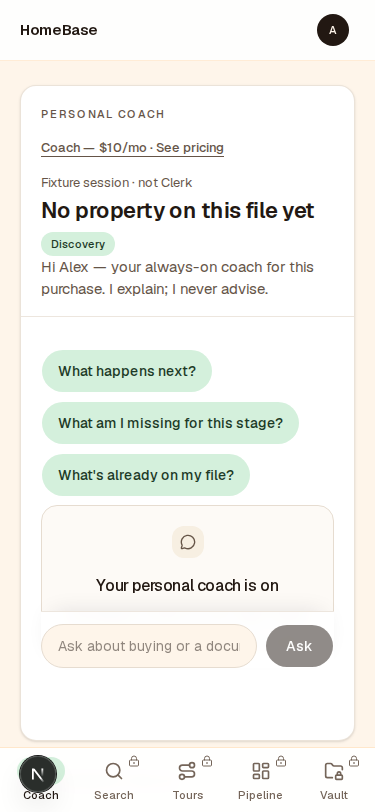
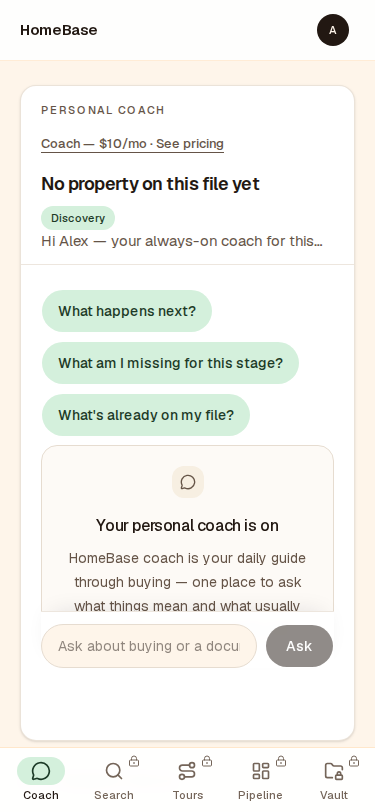
fix(coach): keep first-session starter replies in view @375
Pin the reply thread between chips and Ask on mobile using a 3-row grid
with 16px gap, hide the empty-state fold after a starter tap, and refresh
Playwright proofs under proof/coach-starter-replies/.

Changed region(s): [[0.088, 0.1232, 0.8507, 0.7697], [0.0587, 0.9236, 0.1467, 0.9852]]

diff --git a/src/components/concierge-chat.tsx b/src/components/concierge-chat.tsx
@@ -2,10 +2,11 @@
 
 import { useState, type ReactNode } from "react";
 
+import { cn } from "@/lib/utils";
+
 import { askConcierge } from "@/app/actions/concierge";
 import { ConciergeAnswerView } from "@/components/concierge-answer";
 import { Button } from "@/components/ui/button";
-import { cn } from "@/lib/utils";
 
 /**
  * The eight canonical questions from DESIGN.md §M3, phrased the way a buyer
@@ -67,6 +68,44 @@ export function ConciergeChat({
     setBusy(false);
   }
 
+  const pinFirstSessionMobile = pinStartersAboveScrollOnMobile;
+  const showPinnedFirstSessionThread =
+    pinFirstSessionMobile && asked !== null;
+  const mobileReplyGrid =
+    pinFirstSessionMobile && showPinnedFirstSessionThread;
+
+  const compactFirstSessionAnswer =
+    "max-md:line-clamp-3 max-md:overflow-hidden max-md:px-3 max-md:py-1 max-md:text-xs max-md:leading-snug";
+
+  function renderConversation(options?: { omitUserBubble?: boolean }) {
+    const omitUserBubble = options?.omitUserBubble === true;
+    return (
+      <>
+        {asked === null ? (
+          <p className="my-auto text-center text-sm text-muted-foreground">
+            {idleHint}
+          </p>
+        ) : omitUserBubble ? null : (
+          <p className="ml-auto max-w-[85%] rounded-2xl rounded-br-md bg-primary px-4 py-2.5 text-sm text-primary-foreground">
+            {asked}
+          </p>
+        )}
+        {busy ? (
+          <p className="text-sm text-muted-foreground">Checking this file…</p>
+        ) : null}
+        {answer !== null ? (
+          <ConciergeAnswerView
+            text={answer}
+            kind={kind}
+            className={
+              omitUserBubble ? compactFirstSessionAnswer : undefined
+            }
+          />
+        ) : null}
+      </>
+    );
+  }
+
   const starterChips = (
     <div
       aria-label="Suggested questions"
@@ -94,55 +133,77 @@ export function ConciergeChat({
     <section
       data-testid="concierge"
       aria-label="Transaction concierge"
-      className={cn("flex min-h-0 flex-col", className)}
+      className={cn(
+        "flex min-h-0 flex-col",
+        mobileReplyGrid &&
+          "max-md:grid max-md:min-h-0 max-md:flex-1 max-md:grid-rows-[auto_minmax(0,1fr)_auto] max-md:gap-4",
+        className,
+      )}
     >
-      {pinStartersAboveScrollOnMobile ? (
-        <div className="shrink-0 pt-4 pb-1 max-md:block md:hidden">
+      {pinFirstSessionMobile ? (
+        <div
+          className={cn(
+            "shrink-0 max-md:block md:hidden",
+            mobileReplyGrid && "max-md:row-start-1",
+            showPinnedFirstSessionThread ? "pt-2 pb-0" : "pt-4 pb-1",
+          )}
+        >
           {starterChips}
+        </div>
+      ) : null}
+      {showPinnedFirstSessionThread ? (
+        <div
+          aria-live="polite"
+          data-testid="concierge-first-session-thread"
+          className="flex min-h-0 flex-col gap-0 overflow-y-auto overflow-x-hidden py-0.5 max-md:row-start-2 max-md:block md:hidden"
+        >
+          {renderConversation({ omitUserBubble: true })}
         </div>
       ) : null}
       <div
         className={cn(
           "flex min-h-0 flex-1 flex-col gap-3 overflow-y-auto py-4",
           "max-md:pb-[var(--coach-compose-inset)]",
-          pinStartersAboveScrollOnMobile && "max-md:pt-0",
+          pinFirstSessionMobile && "max-md:pt-0",
+          showPinnedFirstSessionThread && "max-md:hidden",
         )}
       >
-        <div
-          className={cn(
-            pinStartersAboveScrollOnMobile && "max-md:hidden",
-          )}
-        >
+        <div className={cn(pinFirstSessionMobile && "max-md:hidden")}>
           {starterChips}
         </div>
 
-        {scrollIntro ? <div className="shrink-0">{scrollIntro}</div> : null}
+        {scrollIntro && !(pinFirstSessionMobile && asked !== null) ? (
+          <div className="shrink-0">{scrollIntro}</div>
+        ) : null}
 
-        <div aria-live="polite" className="flex min-h-0 flex-1 flex-col gap-3">
-          {asked === null ? (
-            <p className="my-auto text-center text-sm text-muted-foreground">
-              {idleHint}
-            </p>
+        <div
+          aria-live={showPinnedFirstSessionThread ? "off" : "polite"}
+          className="flex min-h-0 flex-1 flex-col gap-3"
+        >
+          {showPinnedFirstSessionThread ? (
+            <div className="hidden min-h-0 flex-1 flex-col gap-3 md:flex">
+              {renderConversation()}
+            </div>
           ) : (
-            <p className="ml-auto max-w-[85%] rounded-2xl rounded-br-md bg-primary px-4 py-2.5 text-sm text-primary-foreground">
-              {asked}
-            </p>
+            renderConversation()
           )}
-          {busy ? (
-            <p className="text-sm text-muted-foreground">Checking this file…</p>
-          ) : null}
-          {answer !== null ? (
-            <ConciergeAnswerView text={answer} kind={kind} />
-          ) : null}
         </div>
       </div>
 
       <div
-        className="shrink-0 max-md:sticky max-md:z-10 max-md:-mx-5 max-md:bottom-[var(--coach-compose-clearance)] max-md:px-5 max-md:pb-[env(safe-area-inset-bottom)] md:static"
+        className={cn(
+          "shrink-0 md:static",
+          mobileReplyGrid
+            ? "max-md:row-start-3 max-md:-mx-5 max-md:px-5 max-md:pb-[env(safe-area-inset-bottom)]"
+            : "max-md:sticky max-md:z-10 max-md:-mx-5 max-md:bottom-[var(--coach-compose-clearance)] max-md:px-5 max-md:pb-[env(safe-area-inset-bottom)]",
+        )}
         data-testid="concierge-compose"
       >
         <form
-          className="flex gap-2 border-t border-border/70 bg-card/95 pt-3 shadow-[0_-8px_24px_-12px_rgba(15,23,42,0.14)] backdrop-blur md:bg-card md:shadow-none md:backdrop-blur-none"
+          className={cn(
+            "flex gap-2 border-t border-border/70 bg-card/95 shadow-[0_-8px_24px_-12px_rgba(15,23,42,0.14)] backdrop-blur md:bg-card md:shadow-none md:backdrop-blur-none",
+            mobileReplyGrid ? "pt-2" : "pt-3",
+          )}
           onSubmit={(event) => {
             event.preventDefault();
             void submit(question);

diff --git a/e2e/coach-starter-replies.spec.ts b/e2e/coach-starter-replies.spec.ts
@@ -6,6 +6,7 @@ import { expect, test } from "@playwright/test";
 import { COACH_FIRST_SESSION_STARTERS } from "../src/lib/coach-first-session";
 
 const PROOF_DIR = "proof/coach-starter-replies";
+const MIN_ASK_CLEARANCE_PX = 16;
 
 const EXPECTED_SNIPPETS: Record<(typeof COACH_FIRST_SESSION_STARTERS)[number], string> =
   {
@@ -38,6 +39,34 @@ async function sha256File(path: string) {
   return createHash("sha256").update(bytes).digest("hex");
 }
 
+async function expectAnswerBetweenChipsAndAsk(
+  page: import("@playwright/test").Page,
+  thread: import("@playwright/test").Locator,
+  answer: import("@playwright/test").Locator,
+) {
+  const compose = page.getByTestId("concierge-compose");
+  const chips = page.getByLabel("Suggested questions").getByRole("button");
+  const lastChip = chips.last();
+
+  const threadBox = await thread.boundingBox();
+  const answerBox = await answer.boundingBox();
+  const composeBox = await compose.boundingBox();
+  const chipBox = await lastChip.boundingBox();
+  expect(threadBox).not.toBeNull();
+  expect(answerBox).not.toBeNull();
+  expect(composeBox).not.toBeNull();
+  expect(chipBox).not.toBeNull();
+
+  expect(threadBox!.y).toBeGreaterThanOrEqual(chipBox!.y - 2);
+  expect(threadBox!.y + threadBox!.height).toBeLessThanOrEqual(
+    composeBox!.y - MIN_ASK_CLEARANCE_PX + 1,
+  );
+
+  await expect(answer).toBeInViewport();
+  expect(answerBox!.y).toBeGreaterThanOrEqual(chipBox!.y - 2);
+  expect(answerBox!.y).toBeLessThan(composeBox!.y);
+}
+
 test.describe.configure({ mode: "serial" });
 
 test.describe("coach first-session starter replies", () => {
@@ -47,15 +76,21 @@ test.describe("coach first-session starter replies", () => {
     }) => {
       await signInAlexDiscoveryEmpty(page);
       await page.getByRole("button", { name: label }).click();
-      await expect(page.getByText("Checking this file…")).toBeHidden({
+
+      const answer = page
+        .getByTestId("concierge-first-session-thread")
+        .getByTestId("concierge-answer");
+      await expect(answer).toHaveAttribute("data-kind", "answer", {
         timeout: 15_000,
       });
-
-      const answer = page.getByTestId("concierge-answer");
       await expect(answer).toBeVisible();
-      await expect(answer).toHaveAttribute("data-kind", "answer");
       await expect(answer).toContainText(EXPECTED_SNIPPETS[label]);
       await expect(answer).not.toContainText(/should i|waive|offer more/i);
+
+      const thread = page.getByTestId("concierge-first-session-thread");
+      await expect(thread).toBeVisible();
+
+      await expectAnswerBetweenChipsAndAsk(page, thread, answer);
 
       const path = `${PROOF_DIR}/starter-${STARTER_SLUGS[label]}-375.png`;
       await page.screenshot({ path, fullPage: false });

diff --git a/src/components/coach-home.tsx b/src/components/coach-home.tsx
@@ -43,7 +43,10 @@ export function CoachHome({
       >
         <header
           data-testid="concierge-scope"
-          className="shrink-0 border-b border-border/70 px-5 pt-5 pb-4"
+          className={cn(
+            "shrink-0 border-b border-border/70 px-5 pt-5 pb-4",
+            firstSession && "max-md:pt-4 max-md:pb-3",
+          )}
         >
           <div className="flex flex-wrap items-center justify-between gap-x-3 gap-y-1">
             <p className="text-eyebrow font-medium tracking-[0.12em] text-muted-foreground uppercase">
@@ -61,16 +64,30 @@ export function CoachHome({
             </Link>
           </div>
           {eyebrow ? (
-            <p className="mt-1 text-small text-muted-foreground">{eyebrow}</p>
+            <p
+              className={cn(
+                "mt-1 text-small text-muted-foreground",
+                firstSession && "max-md:hidden",
+              )}
+            >
+              {eyebrow}
+            </p>
           ) : null}
-          <h1 className="mt-1 truncate text-h2 font-semibold tracking-tight">
+          <h1
+            className={cn(
+              "mt-1 truncate text-h2 font-semibold tracking-tight",
+              firstSession && "max-md:text-lg",
+            )}
+          >
             {scope.address}
           </h1>
           <p className="mt-2 flex flex-wrap items-center gap-x-2 text-body text-muted-foreground">
             <span className="inline-flex h-6 items-center rounded-full bg-sage px-2.5 text-eyebrow font-medium text-sage-foreground">
               {scope.stage}
             </span>
-            <span>
+            <span
+              className={cn(firstSession && "max-md:line-clamp-1 max-md:max-w-full")}
+            >
               {firstSession
                 ? `Hi ${firstName} — your always-on coach for this purchase. I explain; I never advise.`
                 : `Hi ${firstName} — I explain this file only. I never advise.`}
@@ -78,7 +95,10 @@ export function CoachHome({
           </p>
         </header>
         <ConciergeChat
-          className="min-h-0 flex-1 px-5 pt-4 pb-5"
+          className={cn(
+            "min-h-0 flex-1 px-5 pb-5",
+            firstSession ? "pt-2 max-md:pt-2 md:pt-4" : "pt-4",
+          )}
           starters={
             firstSession ? COACH_FIRST_SESSION_STARTERS : undefined
           }

diff --git a/src/components/concierge-answer.tsx b/src/components/concierge-answer.tsx
@@ -76,16 +76,22 @@ export function isConciergeRefusal(kind: string | null): boolean {
 export function ConciergeAnswerView({
   text,
   kind,
+  className,
 }: {
   text: string;
   kind: string | null;
+  className?: string;
 }) {
   if (isConciergeRefusal(kind)) {
     return (
       <div
         data-testid="concierge-answer"
         data-kind={kind ?? undefined}
-        className={cn(REPLY_BUBBLE, "space-y-3 bg-sand text-sand-foreground")}
+        className={cn(
+          REPLY_BUBBLE,
+          "space-y-3 bg-sand text-sand-foreground",
+          className,
+        )}
       >
         <p>{text}</p>
         <Link
@@ -109,7 +115,7 @@ export function ConciergeAnswerView({
       <p
         data-testid="concierge-answer"
         data-kind={kind ?? undefined}
-        className={cn(REPLY_BUBBLE, "bg-card ring-1 ring-black/5")}
+        className={cn(REPLY_BUBBLE, "bg-card ring-1 ring-black/5", className)}
       >
         {text}
       </p>
@@ -120,7 +126,11 @@ export function ConciergeAnswerView({
     <div
       data-testid="concierge-answer"
       data-kind={kind ?? undefined}
-      className={cn(REPLY_BUBBLE, "space-y-2 bg-card ring-1 ring-black/5")}
+      className={cn(
+        REPLY_BUBBLE,
+        "space-y-2 bg-card ring-1 ring-black/5",
+        className,
+      )}
     >
       <p>{sourced.lead}</p>
       <MoneyFigureView figure={sourced.figure} size="md" />

diff --git a/e2e/coach-first-session.spec.ts b/e2e/coach-first-session.spec.ts
@@ -172,9 +172,11 @@ test("coach first-session proof screenshots @375", async ({ page }) => {
   for (const label of FIRST_SESSION_STARTERS) {
     await signInAlexDiscoveryEmpty(page);
     await page.getByRole("button", { name: label }).click();
-    await expect(page.getByText("Checking this file…")).toBeHidden({
-      timeout: 15_000,
-    });
+    await expect(
+      page
+        .getByTestId("concierge-first-session-thread")
+        .getByTestId("concierge-answer"),
+    ).toHaveAttribute("data-kind", "answer", { timeout: 15_000 });
     const path = PROOF_PATHS.starterExpanded(STARTER_SLUGS[label]);
     expandedPaths.push(path);
     await page.screenshot({ path, fullPage: false });

diff --git a/proof/coach-starter-replies/README.md b/proof/coach-starter-replies/README.md
@@ -2,7 +2,7 @@
 
 Fixture path: `/test-login` → **Discovery coach — Alex Rivera (no property)** → `/coach`.
 
-Each PNG is captured after tapping one of the three locked first-session chips. The concierge reply is explain-only (`data-kind="answer"`), scoped to an empty Discovery file.
+Each PNG is captured after tapping one of the three locked first-session chips. The explain-only reply bubble (`data-kind="answer"`) sits between the starter chips and the sticky Ask row in the 375px viewport (not below the empty-state fold).
 
 | File | Starter |
 | --- | --- |
